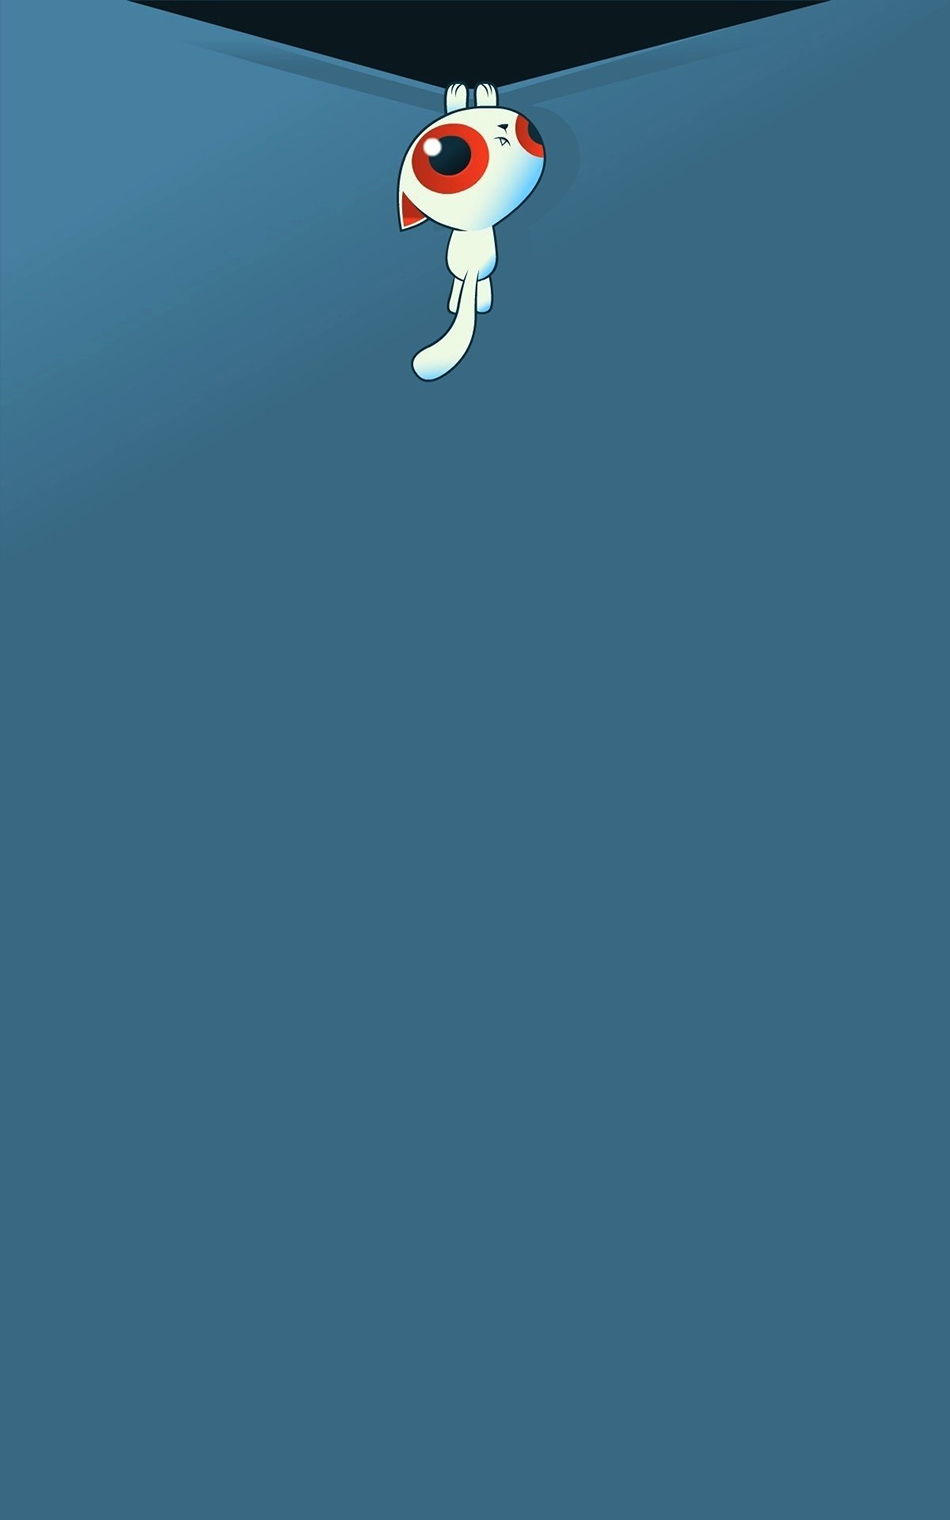
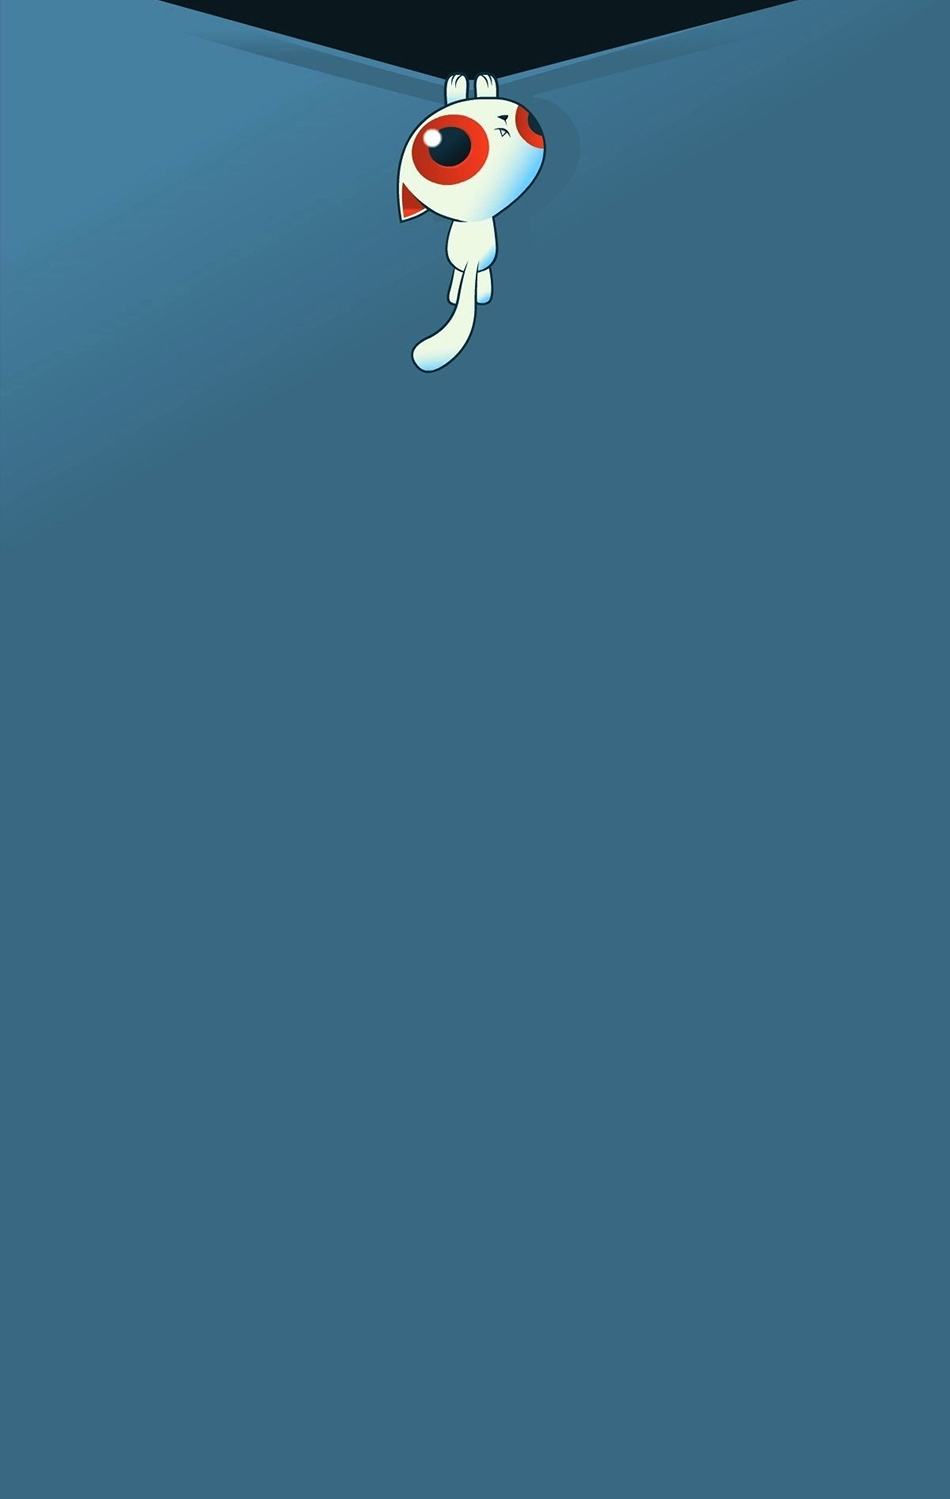
Fixed index image

Changed region(s): [[0.1526, 0.0, 0.6716, 0.2455], [0.6716, 0.0, 0.8547, 0.0307]]

diff --git a/scroll.html b/scroll.html
@@ -1,7 +1,7 @@
 <!DOCTYPE HTML>
 <html lang="en-US">
     <head>
-        <title>Suppablog - Minimal Blog Html Template</title>
+        <title>Break A Bit</title>
         <meta http-equiv="Content-Type" content="text/html; charset=UTF-8">
         <meta name="description" content="Template by Colorlib" />
         <meta name="keywords" content="HTML, CSS, JavaScript, PHP" />
@@ -95,7 +95,7 @@
         <div id="content" class="site-content">
             <div class="full-screen-scroll">
                 <ul id="cbp-bislideshow" class="cbp-bislideshow scroll">
-                    <li style="background-image: url('demo-images/scroll.png');">
+                    <li style="background-image: url('demo-images/scroll.png');  background-size: 80% 100%;">
                         <article class="entry-holder">
                             <h2 class="entry-title">
                                 <a href="single.html">Whatever is begun in anger ends in shame</a>
@@ -115,7 +115,7 @@
                         </article>
                     </li>
 
-                    <li style="background-image: url('demo-images/scroll.png');">
+                    <li style="background-image: url('demo-images/scroll.png'); background-size: 80% 100%;">
                         <article class="entry-holder">
                             <h2 class="entry-title">
                                 <a href="single.html">Whatever is begun in anger ends in shame</a>
@@ -135,7 +135,7 @@
                         </article>
                     </li>
 
-                    <li style="background-image: url('demo-images/scroll.png');">
+                    <li style="background-image: url('demo-images/scroll.png'); background-size: 80% 100%;">
                         <article class="entry-holder">
                             <h2 class="entry-title">
                                 <a href="single.html">Whatever is begun in anger ends in shame</a>
@@ -155,7 +155,7 @@
                         </article>
                     </li>
 
-                    <li style="background-image: url('demo-images/scroll.png');">
+                    <li style="background-image: url('demo-images/scroll.png'); background-size: 80% 100%;">
                         <article class="entry-holder">
                             <h2 class="entry-title">
                                 <a href="single.html">Whatever is begun in anger ends in shame</a>

diff --git a/index.html b/index.html
@@ -228,7 +228,7 @@
             </div>
 
             <div class="featured-image-holder">
-                <div class="featured-post-image" style="background-image: url(demo-images/667265.jpg)"></div>
+            <div class="featured-post-image" style="background-image: url(demo-images/667265.jpg); background-size: 100% 100%;"></div>
 
             </div>
             <div class="clear"></div>
